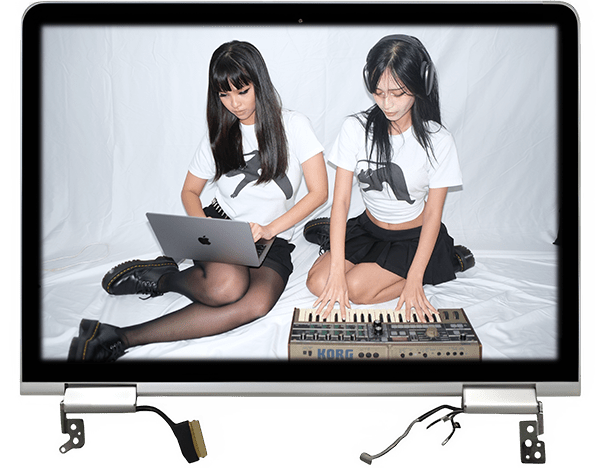
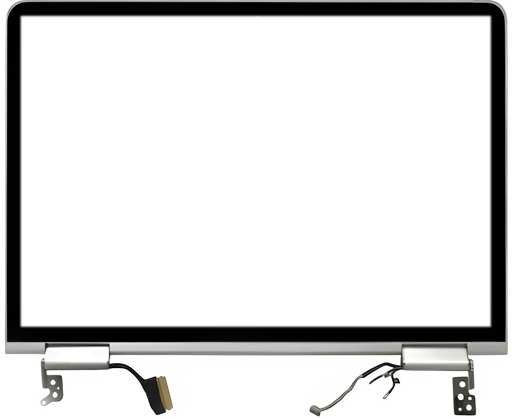
Updated landing page

diff --git a/index.html b/index.html
@@ -25,15 +25,119 @@
     <meta name="twitter:title" content="TIC Corp.">
     <meta name="twitter:description" content="BEST RAT TEES ON THE INTERNET.">
     <meta name="twitter:image" content="https://www.laughwithtic.com/previewImage.jpg">
+    
+    <style>
+        .tv-container {
+            position: relative;
+            margin: 0 auto;
+            width: 100%;
+            max-width: 448px; /* 80% of original 560px */
+            cursor: pointer;
+        }
+        
+        .tv-frame {
+            width: 100%;
+            height: auto;
+            position: relative;
+            z-index: 2;
+            pointer-events: none;
+        }
+        
+        .tv-gif {
+            position: absolute;
+            top: 0;
+            left: 0;
+            width: 100%;
+            height: 100%;
+            z-index: 1;
+            object-fit: cover;
+            pointer-events: none;
+        }
+        
+        .play-button {
+            position: absolute;
+            top: 40%;
+            left: 50%;
+            transform: translate(-50%, -50%);
+            width: 72px; /* Increased from 60px by 20% */
+            height: 72px; /* Increased from 60px by 20% */
+            background-color: rgba(0, 0, 0, 0.6);
+            border-radius: 50%;
+            z-index: 3;
+            display: flex;
+            justify-content: center;
+            align-items: center;
+            pointer-events: none;
+            animation: pulse 1.5s infinite;
+        }
+        
+        .play-button:after {
+            content: '';
+            display: block;
+            width: 24px; /* Fixed width for the rounded triangle */
+            height: 24px; /* Fixed height for the rounded triangle */
+            border-radius: 3px; /* Rounded corners */
+            background-color: white;
+            clip-path: polygon(0 0, 0 100%, 100% 50%); /* Triangle shape with rounded corners */
+            margin-left: 4px; /* Adjust to center visually */
+        }
+        
+        @keyframes pulse {
+            0% {
+                transform: translate(-50%, -50%) scale(1);
+                opacity: 1;
+            }
+            50% {
+                transform: translate(-50%, -50%) scale(1.1);
+                opacity: 0.8;
+            }
+            100% {
+                transform: translate(-50%, -50%) scale(1);
+                opacity: 1;
+            }
+        }
+        
+        .rattire-button-container {
+            margin-top: 40px; /* Add space between TV and button */
+        }
+        
+        /* Mobile responsiveness */
+        @media (max-width: 480px) {
+            .tv-container {
+                max-width: 358px;
+                width: 90%;
+                margin-left: auto;
+                margin-right: auto;
+            }
+            
+            .play-button {
+                width: 60px; /* Increased from 50px by 20% */
+                height: 60px; /* Increased from 50px by 20% */
+            }
+            
+            .play-button:after {
+                width: 20px; /* Smaller for mobile */
+                height: 20px;
+            }
+        }
+    </style>
 </head>
 <body>
     <!-- Content will be added here -->
     <div class="main-content">
         <img src="/ticLOGO.png" alt="TIC Logo" class="index-logo">
-        <img src="/tvFrame.png" alt="TV Frame" class="tv-frame-image">
-        <a href="/characterSelection.html">
-            <button class="rattire-button">Rattire Now</button>
-        </a>
+        
+        <div class="tv-container" id="tvContainer">
+            <img src="/tv.gif" alt="TV Content" class="tv-gif">
+            <img src="/tvFrame.png" alt="TV Frame" class="tv-frame">
+            <div class="play-button"></div>
+        </div>
+        
+        <div class="rattire-button-container">
+            <a href="/characterSelection.html">
+                <button class="rattire-button">Rattire Now</button>
+            </a>
+        </div>
     </div>
 
     <!-- Video Overlay -->
@@ -46,5 +150,28 @@
     <!-- End Video Overlay -->
 
     <script type="module" src="/index.js"></script>
+    <script>
+        // Add click event listener to the TV container to preserve YouTube preview functionality
+        document.getElementById('tvContainer').addEventListener('click', function() {
+            // This assumes the original click handler was looking for a click on the TV frame
+            // If index.js was handling this differently, you may need to update that file instead
+            const videoOverlay = document.getElementById('videoOverlay');
+            const youtubeVideo = document.getElementById('youtubeVideo');
+            
+            // Set the YouTube video source with the provided URL
+            youtubeVideo.src = 'https://www.youtube.com/embed/QbNcKrUaLs0?si=h1010M_WYKn-ztuM&controls=0&autoplay=1';
+            
+            videoOverlay.style.display = 'flex';
+        });
+        
+        // Close video overlay when close button is clicked
+        document.getElementById('closeVideoOverlay').addEventListener('click', function() {
+            const videoOverlay = document.getElementById('videoOverlay');
+            const youtubeVideo = document.getElementById('youtubeVideo');
+            
+            videoOverlay.style.display = 'none';
+            youtubeVideo.src = '';  // Reset video source to stop playback
+        });
+    </script>
 </body>
 </html> 

diff --git a/style.css b/style.css
@@ -921,17 +921,19 @@ body, html {
 }
 
 .rattire-button {
-    padding: 10px 25px; /* Adjusted padding for pill shape */
+    padding: 10px 25px;
     font-family: "Source Code Pro", monospace;
-    font-size: 1rem;
-    font-weight: bold; /* Make text bold */
+    font-size: 16px; /* Match slider-text font size */
+    font-weight: normal; /* Changed from bold to normal to match slider-text */
     cursor: pointer;
-    background-color: #f0f0f0; /* Light grey background */
-    border: 1px solid #ccc;
-    border-radius: 50px; /* Make it pill-shaped */
+    background-color: #ddd;
+    border: none;
+    border-radius: 25px;
     text-decoration: none;
-    color: #333;
+    color: #666; /* Match slider-text color */
     transition: background-color 0.3s ease;
+    text-transform: none; /* Remove uppercase */
+    letter-spacing: normal; /* Remove letter spacing */
 }
 
 .rattire-button:hover {

diff --git a/characterSelection.html b/characterSelection.html
@@ -29,7 +29,9 @@
 <body>
     <div class="container">
         <header class="logo-container">
-            <img src="/ticLOGO.png" alt="TIC Logo" class="logo">
+            <a href="/index.html">
+                <img src="/ticLOGO.png" alt="TIC Logo" class="logo">
+            </a>
         </header>
 
         <main class="shirts-container">
